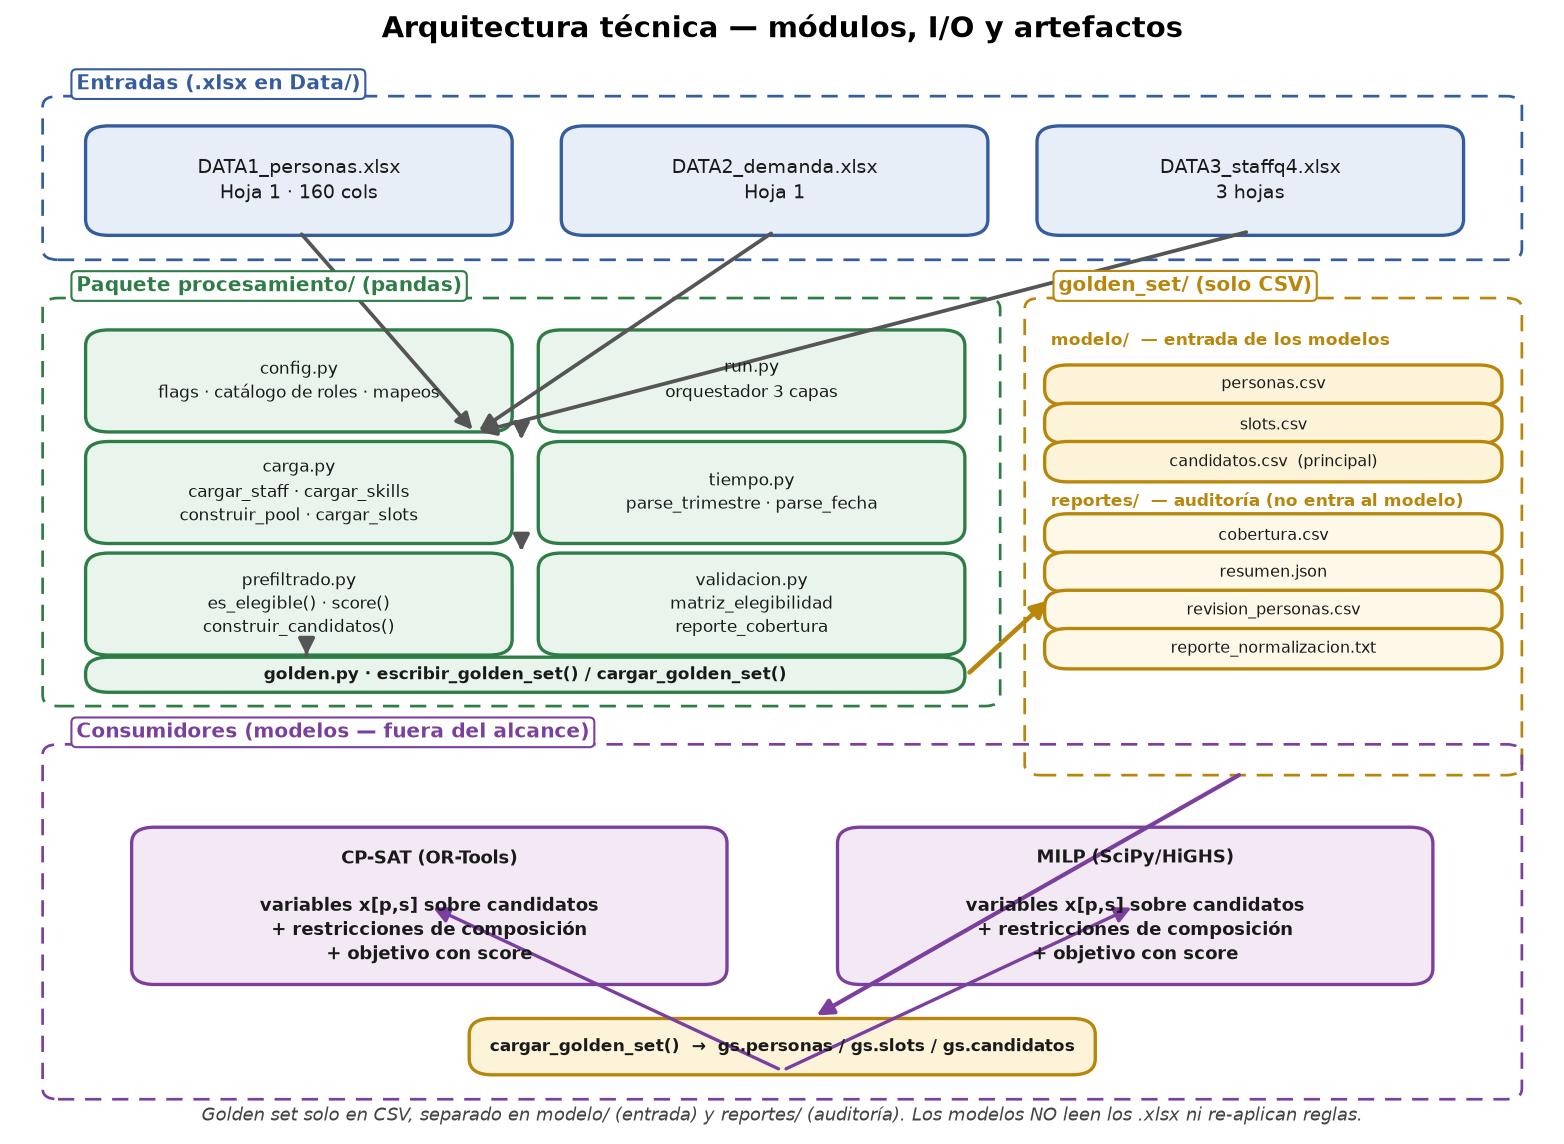
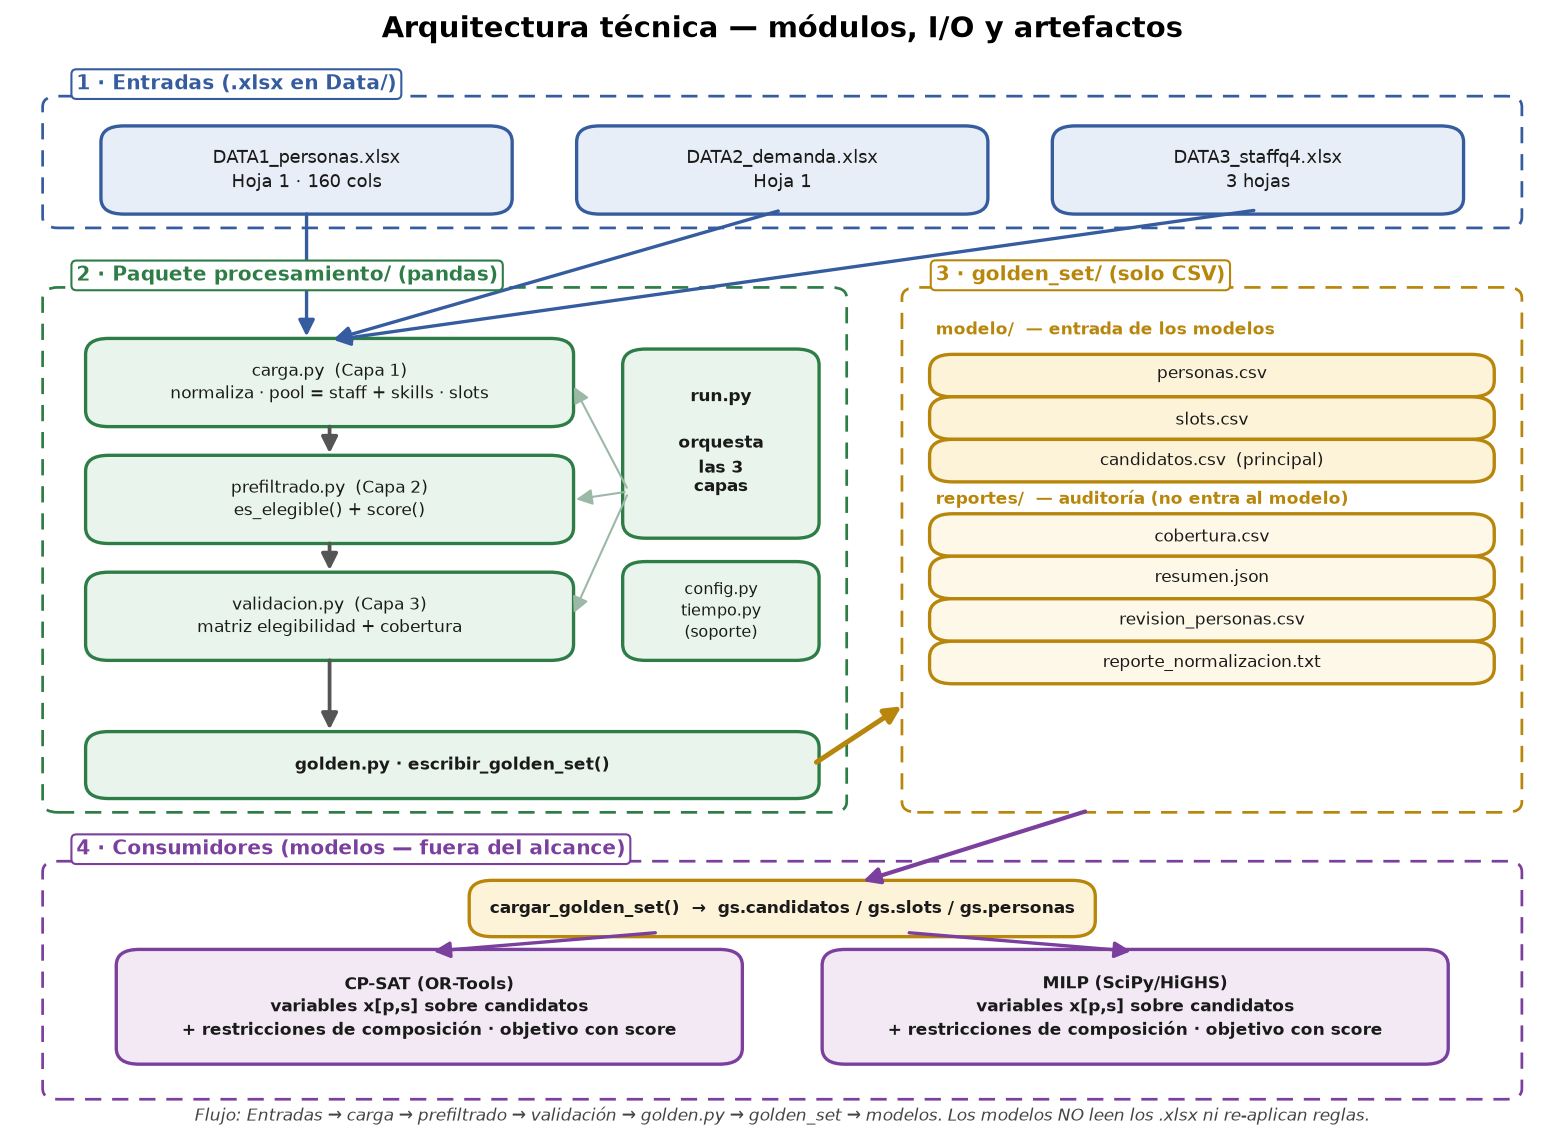
docs: rehace el diagrama tecnico con flujo claro sin flechas solapadas
Layout en 4 franjas numeradas y cascada vertical de capas. Flujo explicito:
Entradas -> carga -> prefiltrado -> validacion -> golden.py -> golden_set ->
modelos. Corrige glifo de join no renderizable.

diff --git a/docs/generar_diagramas.py b/docs/generar_diagramas.py
@@ -123,73 +123,88 @@ def diagrama_tecnico():
     ax.set_title("Arquitectura técnica — módulos, I/O y artefactos",
                  fontsize=14, fontweight="bold", pad=14)
 
-    # --- entradas (.xlsx) ---
-    _band(ax, 0.02, 0.82, 0.96, 0.15, "Entradas (.xlsx en Data/)", C_SRC_E)
-    for i, (txt) in enumerate(["DATA1_personas.xlsx\nHoja 1 · 160 cols",
-                               "DATA2_demanda.xlsx\nHoja 1",
-                               "DATA3_staffq4.xlsx\n3 hojas"]):
-        _box(ax, 0.05 + i * 0.31, 0.845, 0.27, 0.095, txt, C_SRC, C_SRC_E, 9)
+    # Layout en 4 franjas verticales con un flujo descendente claro:
+    #   Entradas  →  Pipeline (carga→prefiltrado→validación→golden)  →
+    #   golden_set  →  Consumidores.  Las flechas no cruzan cajas.
 
-    # --- módulos python ---
-    _band(ax, 0.02, 0.40, 0.62, 0.38, "Paquete procesamiento/ (pandas)", C_PROC_E)
-    mods = [
-        (0.05, 0.66, "config.py\nflags · catálogo de roles · mapeos"),
-        (0.05, 0.555, "carga.py\ncargar_staff · cargar_skills\nconstruir_pool · cargar_slots"),
-        (0.05, 0.45, "prefiltrado.py\nes_elegible() · score()\nconstruir_candidatos()"),
-        (0.345, 0.555, "tiempo.py\nparse_trimestre · parse_fecha"),
-        (0.345, 0.45, "validacion.py\nmatriz_elegibilidad\nreporte_cobertura"),
-        (0.345, 0.66, "run.py\norquestador 3 capas"),
-    ]
-    for x, y, t in mods:
-        _box(ax, x, y, 0.27, 0.088, t, C_PROC, C_PROC_E, 8.3)
-    _box(ax, 0.05, 0.415, 0.565, 0.025,
-         "golden.py · escribir_golden_set() / cargar_golden_set()", C_PROC, C_PROC_E, 8.3, bold=True)
+    # --- franja 1: entradas (.xlsx) ---
+    _band(ax, 0.02, 0.85, 0.96, 0.12, "1 · Entradas (.xlsx en Data/)", C_SRC_E)
+    entradas_x = [0.06, 0.37, 0.68]
+    for x, txt in zip(entradas_x, ["DATA1_personas.xlsx\nHoja 1 · 160 cols",
+                                   "DATA2_demanda.xlsx\nHoja 1",
+                                   "DATA3_staffq4.xlsx\n3 hojas"]):
+        _box(ax, x, 0.865, 0.26, 0.075, txt, C_SRC, C_SRC_E, 8.6)
 
-    # --- artefactos golden_set (CSV, en modelo/ y reportes/) ---
-    _band(ax, 0.66, 0.335, 0.32, 0.445, "golden_set/ (solo CSV)", C_GOLD_E)
-    # sub-bloque modelo/
-    ax.text(0.675, 0.742, "modelo/  — entrada de los modelos",
-            ha="left", va="center", fontsize=8.0, color=C_GOLD_E, fontweight="bold")
-    y = 0.715
+    # --- franja 2: pipeline (columna izquierda, flujo vertical lineal) ---
+    _band(ax, 0.02, 0.30, 0.52, 0.49, "2 · Paquete procesamiento/ (pandas)", C_PROC_E)
+    # run.py orquesta (a la derecha, apunta a cada capa)
+    _box(ax, 0.40, 0.56, 0.12, 0.17,
+         "run.py\n\norquesta\nlas 3\ncapas", C_PROC, C_PROC_E, 8.0, bold=True)
+    # las 3 capas en cascada vertical
+    _box(ax, 0.05, 0.665, 0.31, 0.075,
+         "carga.py  (Capa 1)\nnormaliza · pool = staff + skills · slots", C_PROC, C_PROC_E, 8.0)
+    _box(ax, 0.05, 0.555, 0.31, 0.075,
+         "prefiltrado.py  (Capa 2)\nes_elegible() + score()", C_PROC, C_PROC_E, 8.0)
+    _box(ax, 0.05, 0.445, 0.31, 0.075,
+         "validacion.py  (Capa 3)\nmatriz elegibilidad + cobertura", C_PROC, C_PROC_E, 8.0)
+    # soporte (config, tiempo) a la derecha abajo
+    _box(ax, 0.40, 0.445, 0.12, 0.085,
+         "config.py\ntiempo.py\n(soporte)", C_PROC, C_PROC_E, 7.6)
+    # golden.py cierra el paquete (escribe el golden set)
+    _box(ax, 0.05, 0.315, 0.47, 0.055,
+         "golden.py · escribir_golden_set()", C_PROC, C_PROC_E, 8.2, bold=True)
+
+    # --- franja 3: golden_set (columna derecha) ---
+    _band(ax, 0.58, 0.30, 0.40, 0.49, "3 · golden_set/ (solo CSV)", C_GOLD_E)
+    ax.text(0.60, 0.752, "modelo/  — entrada de los modelos",
+            ha="left", va="center", fontsize=8.2, color=C_GOLD_E, fontweight="bold")
+    y = 0.725
     for a in ["personas.csv", "slots.csv", "candidatos.csv  (principal)"]:
-        _box(ax, 0.675, y - 0.030, 0.29, 0.030, a, C_GOLD, C_GOLD_E, 7.9)
-        y -= 0.036
-    # sub-bloque reportes/
-    ax.text(0.675, y - 0.016, "reportes/  — auditoría (no entra al modelo)",
-            ha="left", va="center", fontsize=8.0, color=C_GOLD_E, fontweight="bold")
-    y -= 0.032
+        _box(ax, 0.60, y - 0.032, 0.36, 0.032, a, C_GOLD, C_GOLD_E, 8.0)
+        y -= 0.04
+    ax.text(0.60, y - 0.012, "reportes/  — auditoría (no entra al modelo)",
+            ha="left", va="center", fontsize=8.2, color=C_GOLD_E, fontweight="bold")
+    y -= 0.03
     for a in ["cobertura.csv", "resumen.json",
               "revision_personas.csv", "reporte_normalizacion.txt"]:
-        _box(ax, 0.675, y - 0.030, 0.29, 0.030, a, "#FDF8E8", C_GOLD_E, 7.9)
-        y -= 0.036
+        _box(ax, 0.60, y - 0.032, 0.36, 0.032, a, "#FDF8E8", C_GOLD_E, 8.0)
+        y -= 0.04
 
-    # --- consumidores ---
-    _band(ax, 0.02, 0.03, 0.96, 0.33, "Consumidores (modelos — fuera del alcance)", C_MODEL_E)
-    _box(ax, 0.08, 0.14, 0.38, 0.14,
-         "CP-SAT (OR-Tools)\n\nvariables x[p,s] sobre candidatos\n+ restricciones de composición\n+ objetivo con score",
-         C_MODEL, C_MODEL_E, 8.6, bold=True)
-    _box(ax, 0.54, 0.14, 0.38, 0.14,
-         "MILP (SciPy/HiGHS)\n\nvariables x[p,s] sobre candidatos\n+ restricciones de composición\n+ objetivo con score",
-         C_MODEL, C_MODEL_E, 8.6, bold=True)
-    _box(ax, 0.30, 0.055, 0.40, 0.045,
-         "cargar_golden_set()  →  gs.personas / gs.slots / gs.candidatos",
-         C_GOLD, C_GOLD_E, 8.3, bold=True)
+    # --- franja 4: consumidores ---
+    _band(ax, 0.02, 0.03, 0.96, 0.22, "4 · Consumidores (modelos — fuera del alcance)", C_MODEL_E)
+    _box(ax, 0.30, 0.185, 0.40, 0.045,
+         "cargar_golden_set()  →  gs.candidatos / gs.slots / gs.personas",
+         C_GOLD, C_GOLD_E, 8.2, bold=True)
+    _box(ax, 0.07, 0.065, 0.40, 0.10,
+         "CP-SAT (OR-Tools)\nvariables x[p,s] sobre candidatos\n+ restricciones de composición · objetivo con score",
+         C_MODEL, C_MODEL_E, 8.2, bold=True)
+    _box(ax, 0.53, 0.065, 0.40, 0.10,
+         "MILP (SciPy/HiGHS)\nvariables x[p,s] sobre candidatos\n+ restricciones de composición · objetivo con score",
+         C_MODEL, C_MODEL_E, 8.2, bold=True)
 
-    # flechas
-    for i in range(3):
-        _arrow(ax, (0.185 + i * 0.31, 0.845), (0.30, 0.655))
-    _arrow(ax, (0.33, 0.66), (0.33, 0.645))
-    _arrow(ax, (0.33, 0.555), (0.33, 0.54))
-    _arrow(ax, (0.19, 0.45), (0.19, 0.442))
-    _arrow(ax, (0.62, 0.427), (0.675, 0.50), ec=C_GOLD_E, lw=2.2)
-    _arrow(ax, (0.80, 0.335), (0.52, 0.105), ec=C_MODEL_E, lw=2.0)
-    _arrow(ax, (0.50, 0.055), (0.27, 0.21), ec=C_MODEL_E, lw=1.6)
-    _arrow(ax, (0.50, 0.055), (0.73, 0.21), ec=C_MODEL_E, lw=1.6)
+    # ===================== FLECHAS (flujo sin cruces) =====================
+    # 1) cada entrada baja recta a la Capa 1 (carga.py)
+    for x in [0.19, 0.50, 0.81]:
+        _arrow(ax, (x, 0.865), (x if x < 0.36 else 0.205, 0.742), ec=C_SRC_E, lw=1.6)
+    # 2) cascada vertical entre capas (izquierda)
+    _arrow(ax, (0.205, 0.665), (0.205, 0.632))      # carga -> prefiltrado
+    _arrow(ax, (0.205, 0.555), (0.205, 0.522))      # prefiltrado -> validación
+    _arrow(ax, (0.205, 0.445), (0.205, 0.372))      # validación -> golden.py
+    # 3) run.py orquesta (líneas finas a cada capa)
+    for yv in (0.702, 0.592, 0.482):
+        _arrow(ax, (0.40, 0.60), (0.363, yv), ec="#9BB9A6", lw=1.0, style="-|>")
+    # 4) golden.py escribe el golden_set (cruza a la franja 3, sin tocar cajas)
+    _arrow(ax, (0.52, 0.343), (0.58, 0.40), ec=C_GOLD_E, lw=2.4)
+    # 5) golden_set se carga en los consumidores (baja recto)
+    _arrow(ax, (0.70, 0.30), (0.55, 0.232), ec=C_MODEL_E, lw=2.0)
+    # 6) cargar_golden_set alimenta a cada modelo
+    _arrow(ax, (0.42, 0.185), (0.27, 0.167), ec=C_MODEL_E, lw=1.6)
+    _arrow(ax, (0.58, 0.185), (0.73, 0.167), ec=C_MODEL_E, lw=1.6)
 
     ax.text(0.5, 0.004,
-            "Golden set solo en CSV, separado en modelo/ (entrada) y reportes/ (auditoría). "
+            "Flujo: Entradas → carga → prefiltrado → validación → golden.py → golden_set → modelos. "
             "Los modelos NO leen los .xlsx ni re-aplican reglas.",
-            ha="center", va="bottom", fontsize=8.5, style="italic", color="#444")
+            ha="center", va="bottom", fontsize=8.3, style="italic", color="#444")
 
     out = DOCS / "arquitectura_tecnica.png"
     fig.savefig(out, dpi=150, bbox_inches="tight"); plt.close(fig)
